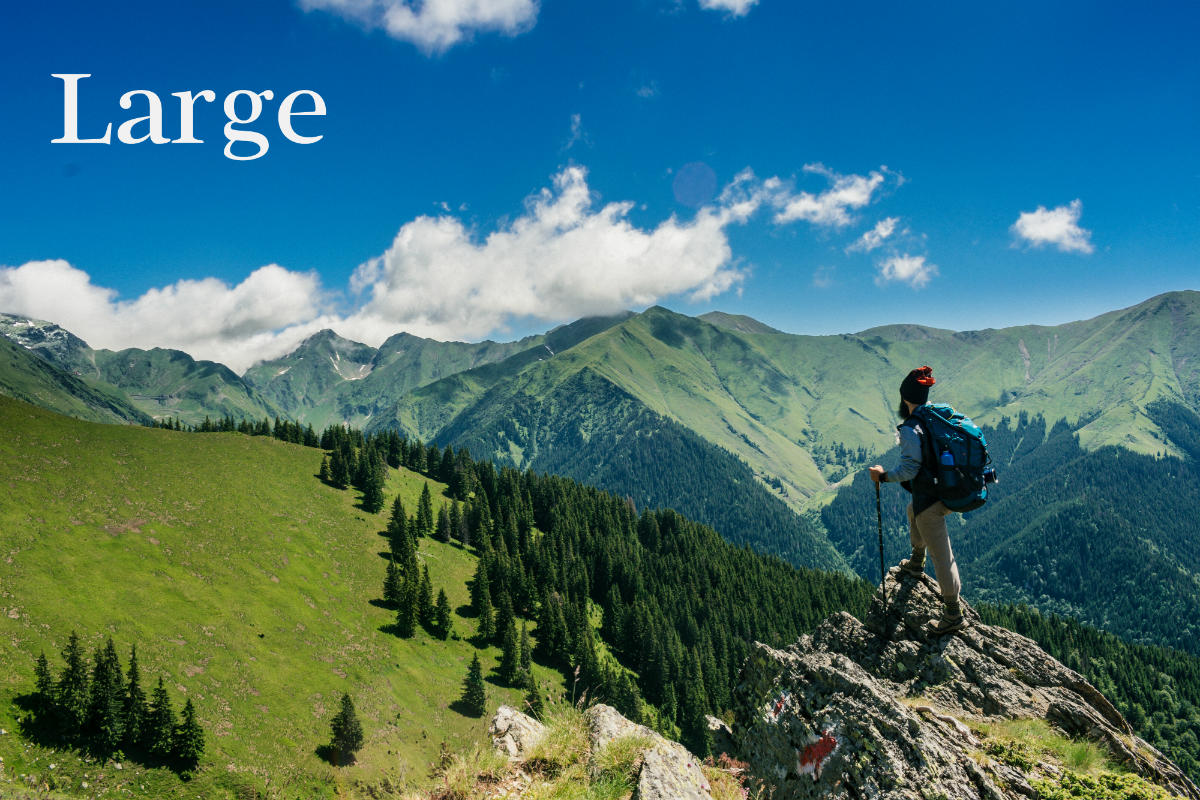
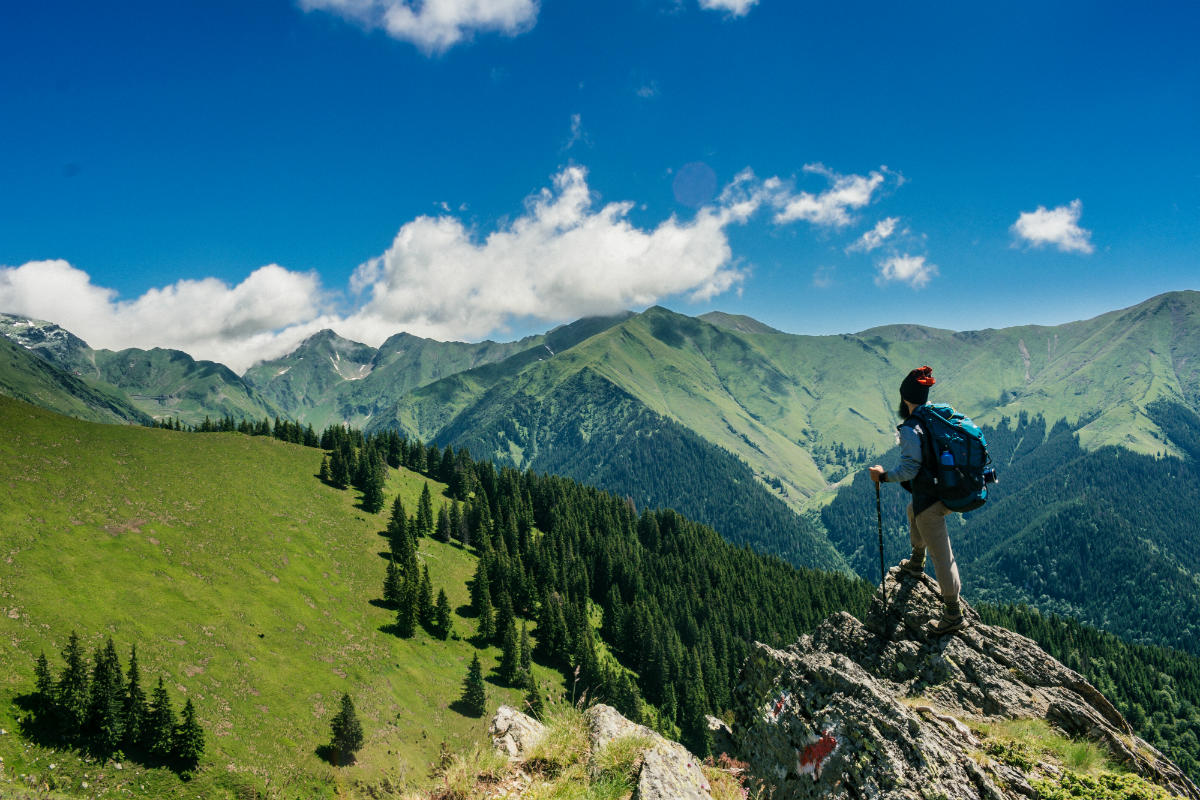
fix

Changed region(s): [[0.0308, 0.0938, 0.2775, 0.2188]]

diff --git a/lesson11/styles/large.css b/lesson11/styles/large.css
@@ -67,6 +67,6 @@
 
 @media only screen and (min-width: 1600px) {
     #hero article {
-        left: 15%;
+        left: 25%;
     }
 }
